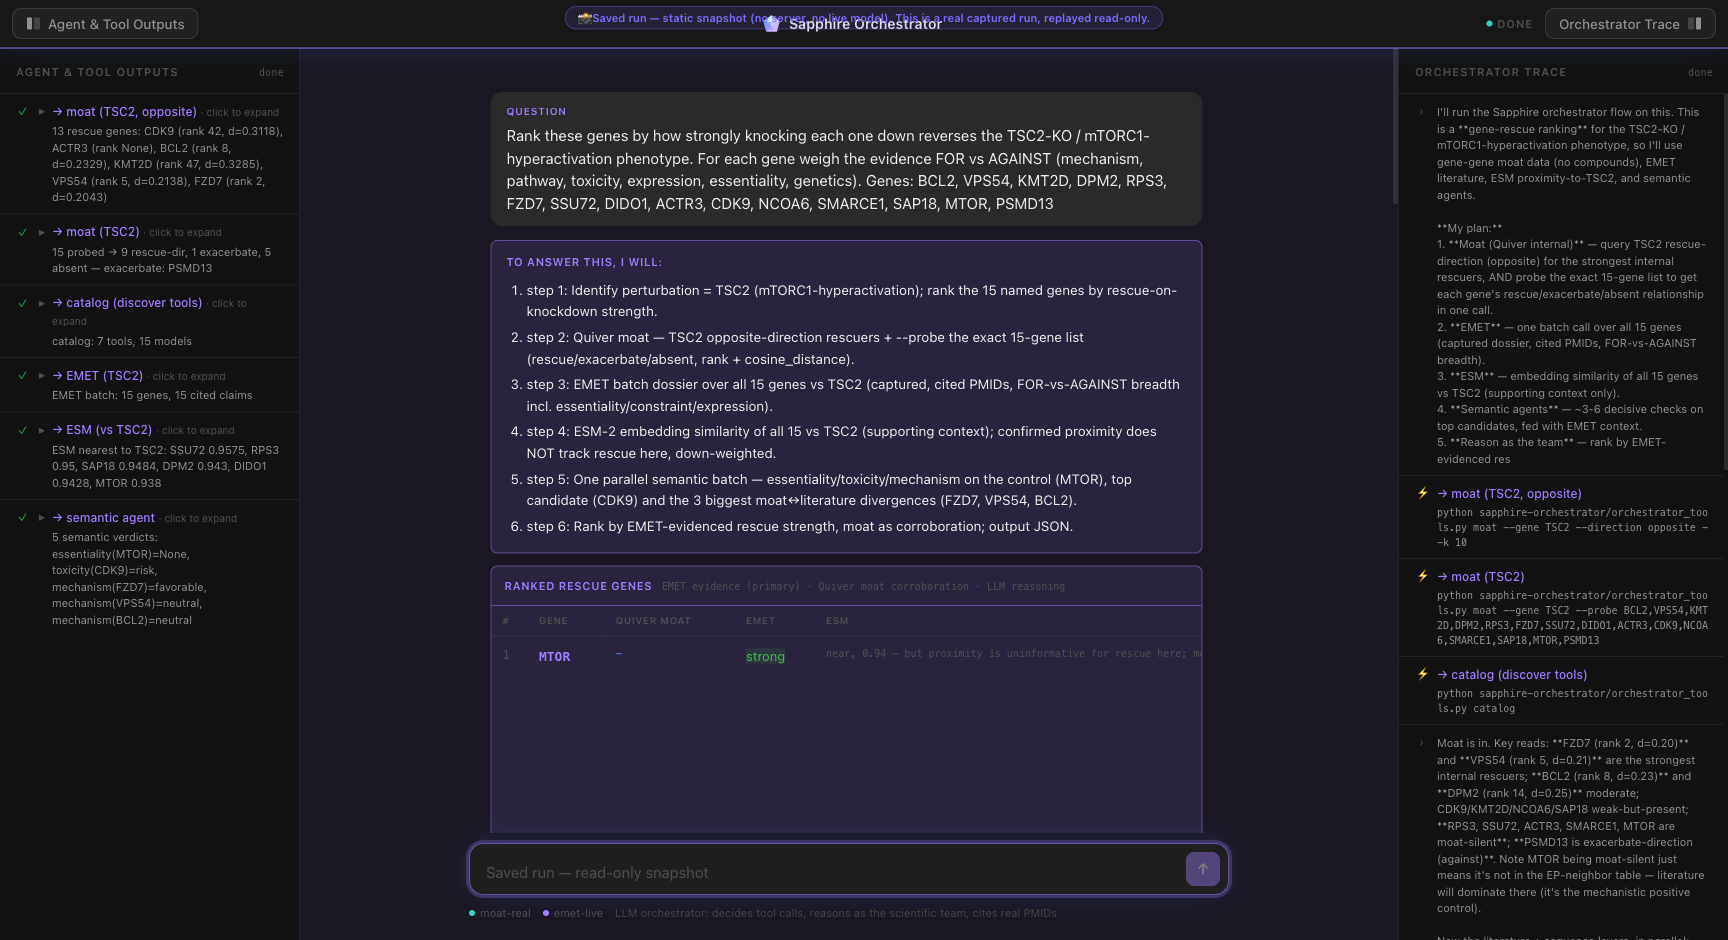
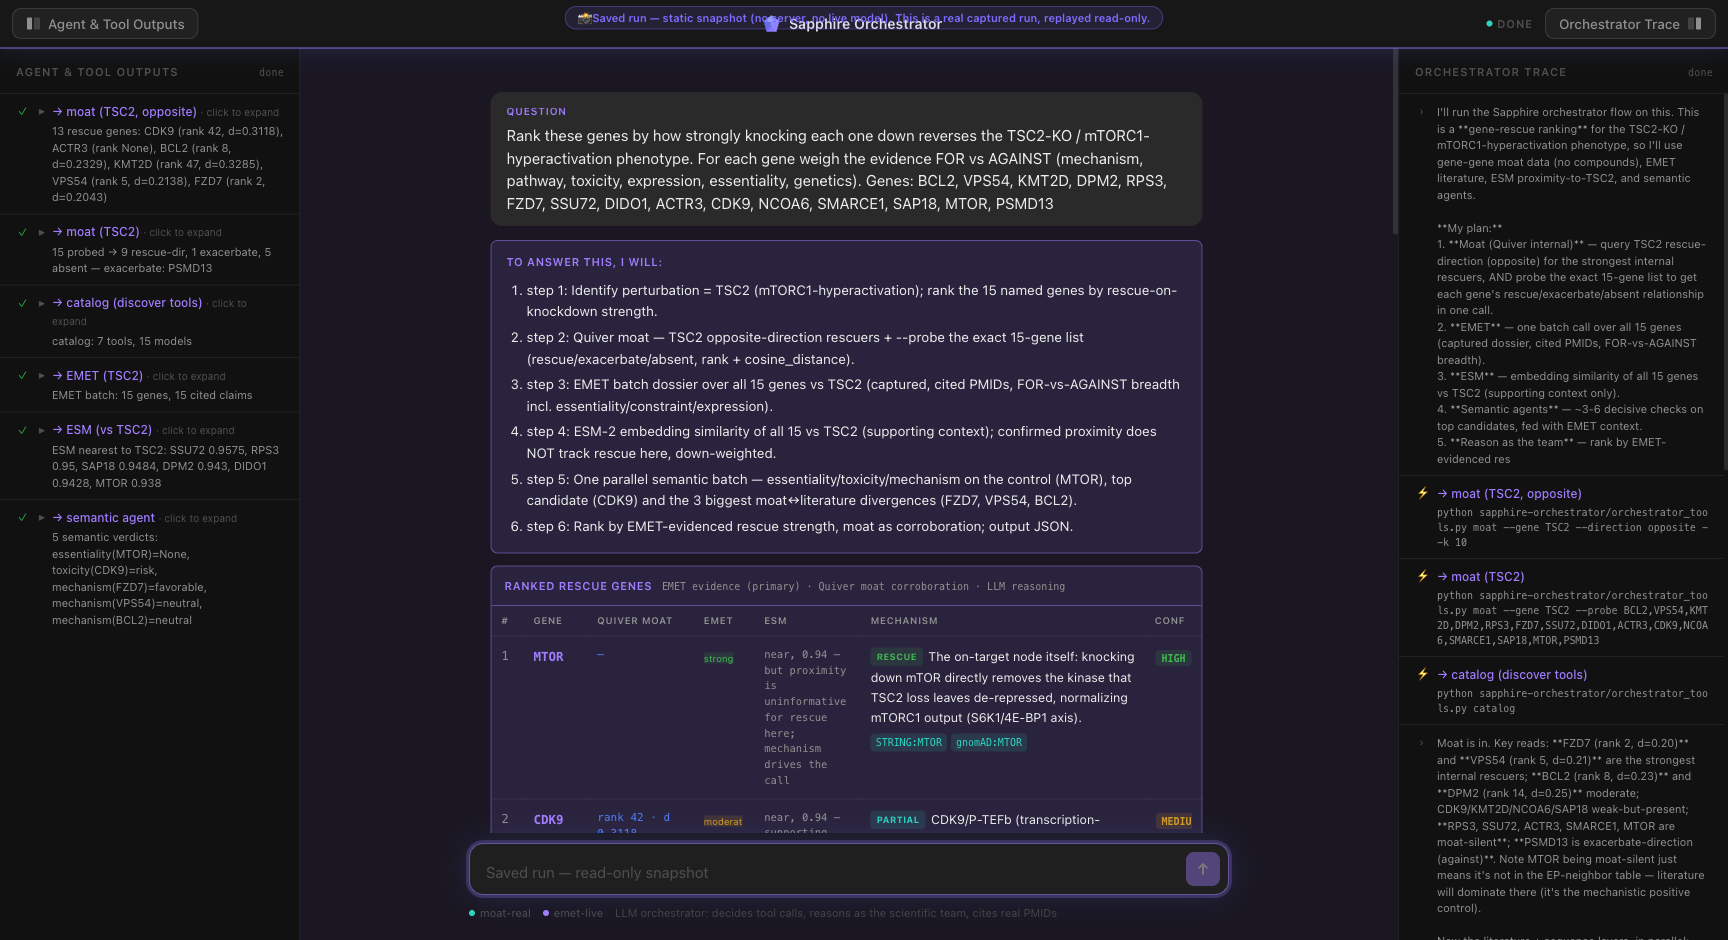
fix(ui): readable :8101 result — fixed-layout ranked table + color-coded verdicts + brighter synthesis
The orchestrator result rendered badly: the ESM cell's long no-wrap text (in near-invisible #4f4f4f
ink-3) blew the table width out, pushing the Mechanism detail off-screen and leaving huge empty rows.

- app.css: ranked table is now table-layout:fixed with a colgroup — Mechanism always gets 40% of the
  width and nothing overflows; ESM/moat cells wrap; faint #4f4f4f (ink-3) text bumped to readable
  #909090 (ink-2) on headers / rank / ESM / sub-label.
- app.js: per-gene verdict is now a color-coded badge (rescue=green · partial=teal · divergence=amber ·
  worsen=red · no-effect=grey); ESM/moat use CSS classes (no more inline nowrap).
- Synthesis: gene symbols bolded so the dense prose is scannable; brighter/larger type (14.5px/1.72);
  confidence on its own divided line.

Rebuilt the :8101 snapshot + refreshed the thumbnail. Verified in-browser: no horizontal overflow,
Mechanism visible (284px), verdicts color-coded, 16 genes bolded in the synthesis, ZERO console errors.

Built-By: rohan

diff --git a/docs/demo/8101_tsc2_run.html b/docs/demo/8101_tsc2_run.html
@@ -353,35 +353,50 @@ body {
 
 /* Synthesis callout (the recommendation) */
 .synthesis {
-  margin: 4px 0 18px; padding: 14px 18px;
+  margin: 4px 0 18px; padding: 16px 19px;
   background: var(--purple-bg); border: 1px solid var(--purple-bd); border-radius: var(--r);
 }
 .synthesis-lbl {
   font-size: 11px; font-weight: 600; letter-spacing: 0.1em; text-transform: uppercase;
-  color: var(--purple); margin-bottom: 7px;
+  color: var(--purple); margin-bottom: 9px;
 }
-.synthesis-rec { font-size: 15px; color: var(--ink); line-height: 1.6; }
-.synthesis-conf { font-size: 12.5px; color: var(--ink-2); margin-top: 8px; }
+.synthesis-rec { font-size: 14.5px; color: var(--ink); line-height: 1.72; }
+.synthesis-rec .syn-gene { color: var(--purple); font-weight: 700; }
+.synthesis-conf { font-size: 12.5px; color: var(--ink-2); margin-top: 11px; padding-top: 10px; border-top: 1px solid var(--purple-bd); }
 .synthesis-conf b { color: var(--ink); }
 .experiment { margin-top: 11px; padding-top: 11px; border-top: 1px solid var(--purple-bd); font-size: 13px; color: var(--ink-2); line-height: 1.6; }
 .ex-lbl { font-size: 10px; font-weight: 600; letter-spacing: 0.08em; text-transform: uppercase; color: var(--ink-3); margin-bottom: 4px; }
 
 /* Ranked rescue-gene table — the headline deliverable for a rescue-ranking query */
-.ranked-genes { margin-top: 12px; border: 1px solid var(--purple-bd); border-radius: var(--r-sm); background: var(--purple-bg); overflow: hidden; }
+.ranked-genes { margin-top: 12px; border: 1px solid var(--purple-bd); border-radius: var(--r-sm); background: var(--purple-bg); overflow-x: auto; }
 .rg-lbl { padding: 10px 13px; font-size: 11px; font-weight: 600; letter-spacing: 0.06em; text-transform: uppercase; color: var(--purple); border-bottom: 1px solid var(--purple-bd); }
-.rg-sub { font-family: var(--mono); font-size: 10px; font-weight: 500; letter-spacing: 0; text-transform: none; color: var(--ink-3); margin-left: 6px; }
-.rg-table { width: 100%; border-collapse: collapse; font-size: 13px; }
-.rg-table thead th { text-align: left; padding: 7px 11px; font-size: 9.5px; font-weight: 600; letter-spacing: 0.07em; text-transform: uppercase; color: var(--ink-3); border-bottom: 1px solid var(--edge); }
-.rg-row td { padding: 9px 11px; vertical-align: top; border-bottom: 1px solid var(--edge); }
+.rg-sub { font-family: var(--mono); font-size: 10px; font-weight: 500; letter-spacing: 0; text-transform: none; color: var(--ink-2); margin-left: 6px; }
+/* table-layout:fixed + a colgroup so the Mechanism detail ALWAYS gets the bulk of the width and
+   no long cell (e.g. the ESM note) can push columns off-screen; everything wraps in its own cell. */
+.rg-table { width: 100%; border-collapse: collapse; font-size: 12.5px; table-layout: fixed; }
+.rg-table .c-rank { width: 4.5%; } .rg-table .c-gene { width: 9%; } .rg-table .c-moat { width: 15%; }
+.rg-table .c-emet { width: 8.5%; } .rg-table .c-esm { width: 15%; } .rg-table .c-mech { width: 40%; }
+.rg-table .c-conf { width: 8%; }
+.rg-table thead th { text-align: left; padding: 7px 10px; font-size: 9.5px; font-weight: 600; letter-spacing: 0.07em; text-transform: uppercase; color: var(--ink-2); border-bottom: 1px solid var(--edge); }
+.rg-row td { padding: 10px 10px; vertical-align: top; border-bottom: 1px solid var(--edge); overflow-wrap: anywhere; }
 .rg-row:last-child td { border-bottom: none; }
-.rg-rank { font-family: var(--mono); font-size: 12px; color: var(--ink-3); width: 26px; }
-.rg-gene { font-family: var(--mono); font-weight: 600; color: var(--purple); white-space: nowrap; }
-.rg-mech { color: var(--ink); line-height: 1.55; }
-.rg-cites { margin-top: 5px; }
-.rg-cite { font-family: var(--mono); font-size: 10px; color: var(--teal); background: var(--teal-bg); border-radius: 4px; padding: 1px 5px; margin-right: 4px; }
-.rg-moat { font-family: var(--mono); font-size: 12px; color: var(--blue); white-space: nowrap; }
+.rg-rank { font-family: var(--mono); font-size: 12px; color: var(--ink-2); }
+.rg-gene { font-family: var(--mono); font-weight: 700; color: var(--purple); white-space: nowrap; font-size: 12.5px; }
+.rg-moat { font-family: var(--mono); font-size: 11px; color: var(--blue); line-height: 1.45; }
+.rg-emet .conf { font-size: 9.5px; }
+.rg-esm { font-family: var(--mono); font-size: 10.5px; color: var(--ink-2); line-height: 1.5; }
+.rg-mech { color: var(--ink); line-height: 1.62; font-size: 12.5px; }
+.rg-cites { margin-top: 6px; display: flex; flex-wrap: wrap; gap: 4px; }
+.rg-cite { font-family: var(--mono); font-size: 10px; color: var(--teal); background: var(--teal-bg); border-radius: 4px; padding: 1px 5px; }
 .rg-uncov { color: var(--ink-3); }
-.rg-conf { width: 64px; text-align: right; }
+.rg-conf { text-align: right; }
+/* per-gene verdict — a color-coded badge so the call (rescue / partial / divergence / worsen) reads at a glance */
+.rg-verdict { display: inline-block; font-size: 9px; font-weight: 700; text-transform: uppercase; letter-spacing: 0.04em; padding: 2px 6px; border-radius: 4px; margin-right: 2px; vertical-align: 1px; }
+.rg-v-rescue { color: var(--green); background: var(--green-bg); }
+.rg-v-partial { color: var(--teal); background: var(--teal-bg); }
+.rg-v-divergence { color: var(--amber); background: var(--amber-bg); }
+.rg-v-worsen, .rg-v-nogo, .rg-v-exacerbate { color: var(--red); background: var(--red-bg); }
+.rg-v-noeffect, .rg-v-none { color: var(--ink-2); background: var(--bubble); }
 .rg-conf .conf { font-family: var(--mono); font-size: 10px; font-weight: 600; text-transform: uppercase; padding: 2px 6px; border-radius: 4px; }
 .conf-high { color: var(--green); background: var(--green-bg); }
 .conf-medium { color: var(--amber); background: var(--amber-bg); }
@@ -1024,7 +1039,9 @@ textarea.chat-input::placeholder { color: var(--ink-3); }
     if (genes.length) {
       let html = '<div class="ranked-genes">';
       html += '<div class="rg-lbl">Ranked Rescue Genes <span class="rg-sub">EMET evidence (primary) · Quiver moat corroboration · LLM reasoning</span></div>';
-      html += '<table class="rg-table"><thead><tr>';
+      html += '<table class="rg-table">';
+      html += '<colgroup><col class="c-rank"><col class="c-gene"><col class="c-moat"><col class="c-emet"><col class="c-esm"><col class="c-mech"><col class="c-conf"></colgroup>';
+      html += '<thead><tr>';
       html += '<th>#</th><th>Gene</th><th>Quiver moat</th><th>EMET</th><th>ESM</th><th>Mechanism</th><th>Conf</th>';
       html += '</tr></thead><tbody>';
       genes.forEach(function (g) {
@@ -1044,13 +1061,14 @@ textarea.chat-input::placeholder { color: var(--ink-3); }
         const sup = String(g.emet_support || '').toLowerCase();
         const supClass = sup === 'strong' ? 'conf-high' : sup === 'moderate' ? 'conf-medium'
           : (sup === 'weak' || sup === 'none') ? 'conf-low' : '';
-        const verdict = g.verdict ? '<span class="rg-verdict" style="font-size:9px;text-transform:uppercase;letter-spacing:.04em;color:var(--purple);margin-right:5px">' + escHtml(String(g.verdict)) + '</span>' : '';
+        const vkey = String(g.verdict || '').toLowerCase().replace(/[^a-z]/g, '');
+        const verdict = g.verdict ? '<span class="rg-verdict rg-v-' + vkey + '">' + escHtml(String(g.verdict)) + '</span> ' : '';
         html += '<tr class="rg-row">';
         html += '<td class="rg-rank">' + escHtml(String(g.rank || '')) + '</td>';
         html += '<td class="rg-gene">' + escHtml(String(g.gene || '')) + '</td>';
-        html += '<td class="rg-moat" style="font-family:var(--mono);font-size:10px;white-space:nowrap">' + escHtml(moat) + '</td>';
-        html += '<td>' + (sup ? '<span class="conf ' + supClass + '">' + escHtml(sup) + '</span>' : '–') + '</td>';
-        html += '<td style="font-family:var(--mono);font-size:10px;color:var(--ink-3);white-space:nowrap">' + escHtml(String(g.esm_signal || '–')) + '</td>';
+        html += '<td class="rg-moat">' + escHtml(moat) + '</td>';
+        html += '<td class="rg-emet">' + (sup ? '<span class="conf ' + supClass + '">' + escHtml(sup) + '</span>' : '–') + '</td>';
+        html += '<td class="rg-esm">' + escHtml(String(g.esm_signal || '–')) + '</td>';
         html += '<td class="rg-mech">' + verdict + escHtml(String(g.mechanism || ''))
           + (cites ? '<div class="rg-cites">' + cites + '</div>' : '') + '</td>';
         html += '<td class="rg-conf"><span class="conf ' + confClass + '">' + escHtml(String(g.confidence || '')) + '</span></td>';
@@ -1062,12 +1080,21 @@ textarea.chat-input::placeholder { color: var(--ink-3); }
 
     // --- SYNTHESIS callout (center) ---
     if (data.synthesis) {
-      const confClass = data.confidence === 'high' ? 'conf-high'
-        : data.confidence === 'medium' ? 'conf-medium' : 'conf-low';
+      // Bold the gene symbols in the prose so the dense synthesis is scannable (genes from the ranked
+      // list, longest-first to avoid partial overlaps). escHtml first; gene symbols are alnum so the
+      // escaping never touches them, and the only injected markup is our own <b>.
+      let synthHtml = escHtml(String(data.synthesis));
+      (data.ranked_genes || []).map(function (g) { return String(g.gene || ''); })
+        .filter(Boolean).sort(function (a, b) { return b.length - a.length; })
+        .forEach(function (gn) {
+          synthHtml = synthHtml.replace(
+            new RegExp('\\b' + gn.replace(/[.*+?^${}()|[\]\\]/g, '\\$&') + '\\b', 'g'),
+            '<b class="syn-gene">' + gn + '</b>');
+        });
       synthesis.innerHTML =
         '<div class="synthesis">' +
-          '<div class="synthesis-lbl">Synthesis</div>' +
-          '<div class="synthesis-rec">' + escHtml(String(data.synthesis)) + '</div>' +
+          '<div class="synthesis-lbl">Synthesis — the recommendation</div>' +
+          '<div class="synthesis-rec">' + synthHtml + '</div>' +
           (data.confidence
             ? '<div class="synthesis-conf">Confidence: <b>' + escHtml(String(data.confidence)) + '</b></div>'
             : '') +

diff --git a/orchestrator_ui/static/app.css b/orchestrator_ui/static/app.css
@@ -345,35 +345,50 @@ body {
 
 /* Synthesis callout (the recommendation) */
 .synthesis {
-  margin: 4px 0 18px; padding: 14px 18px;
+  margin: 4px 0 18px; padding: 16px 19px;
   background: var(--purple-bg); border: 1px solid var(--purple-bd); border-radius: var(--r);
 }
 .synthesis-lbl {
   font-size: 11px; font-weight: 600; letter-spacing: 0.1em; text-transform: uppercase;
-  color: var(--purple); margin-bottom: 7px;
+  color: var(--purple); margin-bottom: 9px;
 }
-.synthesis-rec { font-size: 15px; color: var(--ink); line-height: 1.6; }
-.synthesis-conf { font-size: 12.5px; color: var(--ink-2); margin-top: 8px; }
+.synthesis-rec { font-size: 14.5px; color: var(--ink); line-height: 1.72; }
+.synthesis-rec .syn-gene { color: var(--purple); font-weight: 700; }
+.synthesis-conf { font-size: 12.5px; color: var(--ink-2); margin-top: 11px; padding-top: 10px; border-top: 1px solid var(--purple-bd); }
 .synthesis-conf b { color: var(--ink); }
 .experiment { margin-top: 11px; padding-top: 11px; border-top: 1px solid var(--purple-bd); font-size: 13px; color: var(--ink-2); line-height: 1.6; }
 .ex-lbl { font-size: 10px; font-weight: 600; letter-spacing: 0.08em; text-transform: uppercase; color: var(--ink-3); margin-bottom: 4px; }
 
 /* Ranked rescue-gene table — the headline deliverable for a rescue-ranking query */
-.ranked-genes { margin-top: 12px; border: 1px solid var(--purple-bd); border-radius: var(--r-sm); background: var(--purple-bg); overflow: hidden; }
+.ranked-genes { margin-top: 12px; border: 1px solid var(--purple-bd); border-radius: var(--r-sm); background: var(--purple-bg); overflow-x: auto; }
 .rg-lbl { padding: 10px 13px; font-size: 11px; font-weight: 600; letter-spacing: 0.06em; text-transform: uppercase; color: var(--purple); border-bottom: 1px solid var(--purple-bd); }
-.rg-sub { font-family: var(--mono); font-size: 10px; font-weight: 500; letter-spacing: 0; text-transform: none; color: var(--ink-3); margin-left: 6px; }
-.rg-table { width: 100%; border-collapse: collapse; font-size: 13px; }
-.rg-table thead th { text-align: left; padding: 7px 11px; font-size: 9.5px; font-weight: 600; letter-spacing: 0.07em; text-transform: uppercase; color: var(--ink-3); border-bottom: 1px solid var(--edge); }
-.rg-row td { padding: 9px 11px; vertical-align: top; border-bottom: 1px solid var(--edge); }
+.rg-sub { font-family: var(--mono); font-size: 10px; font-weight: 500; letter-spacing: 0; text-transform: none; color: var(--ink-2); margin-left: 6px; }
+/* table-layout:fixed + a colgroup so the Mechanism detail ALWAYS gets the bulk of the width and
+   no long cell (e.g. the ESM note) can push columns off-screen; everything wraps in its own cell. */
+.rg-table { width: 100%; border-collapse: collapse; font-size: 12.5px; table-layout: fixed; }
+.rg-table .c-rank { width: 4.5%; } .rg-table .c-gene { width: 9%; } .rg-table .c-moat { width: 15%; }
+.rg-table .c-emet { width: 8.5%; } .rg-table .c-esm { width: 15%; } .rg-table .c-mech { width: 40%; }
+.rg-table .c-conf { width: 8%; }
+.rg-table thead th { text-align: left; padding: 7px 10px; font-size: 9.5px; font-weight: 600; letter-spacing: 0.07em; text-transform: uppercase; color: var(--ink-2); border-bottom: 1px solid var(--edge); }
+.rg-row td { padding: 10px 10px; vertical-align: top; border-bottom: 1px solid var(--edge); overflow-wrap: anywhere; }
 .rg-row:last-child td { border-bottom: none; }
-.rg-rank { font-family: var(--mono); font-size: 12px; color: var(--ink-3); width: 26px; }
-.rg-gene { font-family: var(--mono); font-weight: 600; color: var(--purple); white-space: nowrap; }
-.rg-mech { color: var(--ink); line-height: 1.55; }
-.rg-cites { margin-top: 5px; }
-.rg-cite { font-family: var(--mono); font-size: 10px; color: var(--teal); background: var(--teal-bg); border-radius: 4px; padding: 1px 5px; margin-right: 4px; }
-.rg-moat { font-family: var(--mono); font-size: 12px; color: var(--blue); white-space: nowrap; }
+.rg-rank { font-family: var(--mono); font-size: 12px; color: var(--ink-2); }
+.rg-gene { font-family: var(--mono); font-weight: 700; color: var(--purple); white-space: nowrap; font-size: 12.5px; }
+.rg-moat { font-family: var(--mono); font-size: 11px; color: var(--blue); line-height: 1.45; }
+.rg-emet .conf { font-size: 9.5px; }
+.rg-esm { font-family: var(--mono); font-size: 10.5px; color: var(--ink-2); line-height: 1.5; }
+.rg-mech { color: var(--ink); line-height: 1.62; font-size: 12.5px; }
+.rg-cites { margin-top: 6px; display: flex; flex-wrap: wrap; gap: 4px; }
+.rg-cite { font-family: var(--mono); font-size: 10px; color: var(--teal); background: var(--teal-bg); border-radius: 4px; padding: 1px 5px; }
 .rg-uncov { color: var(--ink-3); }
-.rg-conf { width: 64px; text-align: right; }
+.rg-conf { text-align: right; }
+/* per-gene verdict — a color-coded badge so the call (rescue / partial / divergence / worsen) reads at a glance */
+.rg-verdict { display: inline-block; font-size: 9px; font-weight: 700; text-transform: uppercase; letter-spacing: 0.04em; padding: 2px 6px; border-radius: 4px; margin-right: 2px; vertical-align: 1px; }
+.rg-v-rescue { color: var(--green); background: var(--green-bg); }
+.rg-v-partial { color: var(--teal); background: var(--teal-bg); }
+.rg-v-divergence { color: var(--amber); background: var(--amber-bg); }
+.rg-v-worsen, .rg-v-nogo, .rg-v-exacerbate { color: var(--red); background: var(--red-bg); }
+.rg-v-noeffect, .rg-v-none { color: var(--ink-2); background: var(--bubble); }
 .rg-conf .conf { font-family: var(--mono); font-size: 10px; font-weight: 600; text-transform: uppercase; padding: 2px 6px; border-radius: 4px; }
 .conf-high { color: var(--green); background: var(--green-bg); }
 .conf-medium { color: var(--amber); background: var(--amber-bg); }

diff --git a/orchestrator_ui/static/app.js b/orchestrator_ui/static/app.js
@@ -265,7 +265,9 @@
     if (genes.length) {
       let html = '<div class="ranked-genes">';
       html += '<div class="rg-lbl">Ranked Rescue Genes <span class="rg-sub">EMET evidence (primary) · Quiver moat corroboration · LLM reasoning</span></div>';
-      html += '<table class="rg-table"><thead><tr>';
+      html += '<table class="rg-table">';
+      html += '<colgroup><col class="c-rank"><col class="c-gene"><col class="c-moat"><col class="c-emet"><col class="c-esm"><col class="c-mech"><col class="c-conf"></colgroup>';
+      html += '<thead><tr>';
       html += '<th>#</th><th>Gene</th><th>Quiver moat</th><th>EMET</th><th>ESM</th><th>Mechanism</th><th>Conf</th>';
       html += '</tr></thead><tbody>';
       genes.forEach(function (g) {
@@ -285,13 +287,14 @@
         const sup = String(g.emet_support || '').toLowerCase();
         const supClass = sup === 'strong' ? 'conf-high' : sup === 'moderate' ? 'conf-medium'
           : (sup === 'weak' || sup === 'none') ? 'conf-low' : '';
-        const verdict = g.verdict ? '<span class="rg-verdict" style="font-size:9px;text-transform:uppercase;letter-spacing:.04em;color:var(--purple);margin-right:5px">' + escHtml(String(g.verdict)) + '</span>' : '';
+        const vkey = String(g.verdict || '').toLowerCase().replace(/[^a-z]/g, '');
+        const verdict = g.verdict ? '<span class="rg-verdict rg-v-' + vkey + '">' + escHtml(String(g.verdict)) + '</span> ' : '';
         html += '<tr class="rg-row">';
         html += '<td class="rg-rank">' + escHtml(String(g.rank || '')) + '</td>';
         html += '<td class="rg-gene">' + escHtml(String(g.gene || '')) + '</td>';
-        html += '<td class="rg-moat" style="font-family:var(--mono);font-size:10px;white-space:nowrap">' + escHtml(moat) + '</td>';
-        html += '<td>' + (sup ? '<span class="conf ' + supClass + '">' + escHtml(sup) + '</span>' : '–') + '</td>';
-        html += '<td style="font-family:var(--mono);font-size:10px;color:var(--ink-3);white-space:nowrap">' + escHtml(String(g.esm_signal || '–')) + '</td>';
+        html += '<td class="rg-moat">' + escHtml(moat) + '</td>';
+        html += '<td class="rg-emet">' + (sup ? '<span class="conf ' + supClass + '">' + escHtml(sup) + '</span>' : '–') + '</td>';
+        html += '<td class="rg-esm">' + escHtml(String(g.esm_signal || '–')) + '</td>';
         html += '<td class="rg-mech">' + verdict + escHtml(String(g.mechanism || ''))
           + (cites ? '<div class="rg-cites">' + cites + '</div>' : '') + '</td>';
         html += '<td class="rg-conf"><span class="conf ' + confClass + '">' + escHtml(String(g.confidence || '')) + '</span></td>';
@@ -303,12 +306,21 @@
 
     // --- SYNTHESIS callout (center) ---
     if (data.synthesis) {
-      const confClass = data.confidence === 'high' ? 'conf-high'
-        : data.confidence === 'medium' ? 'conf-medium' : 'conf-low';
+      // Bold the gene symbols in the prose so the dense synthesis is scannable (genes from the ranked
+      // list, longest-first to avoid partial overlaps). escHtml first; gene symbols are alnum so the
+      // escaping never touches them, and the only injected markup is our own <b>.
+      let synthHtml = escHtml(String(data.synthesis));
+      (data.ranked_genes || []).map(function (g) { return String(g.gene || ''); })
+        .filter(Boolean).sort(function (a, b) { return b.length - a.length; })
+        .forEach(function (gn) {
+          synthHtml = synthHtml.replace(
+            new RegExp('\\b' + gn.replace(/[.*+?^${}()|[\]\\]/g, '\\$&') + '\\b', 'g'),
+            '<b class="syn-gene">' + gn + '</b>');
+        });
       synthesis.innerHTML =
         '<div class="synthesis">' +
-          '<div class="synthesis-lbl">Synthesis</div>' +
-          '<div class="synthesis-rec">' + escHtml(String(data.synthesis)) + '</div>' +
+          '<div class="synthesis-lbl">Synthesis — the recommendation</div>' +
+          '<div class="synthesis-rec">' + synthHtml + '</div>' +
           (data.confidence
             ? '<div class="synthesis-conf">Confidence: <b>' + escHtml(String(data.confidence)) + '</b></div>'
             : '') +